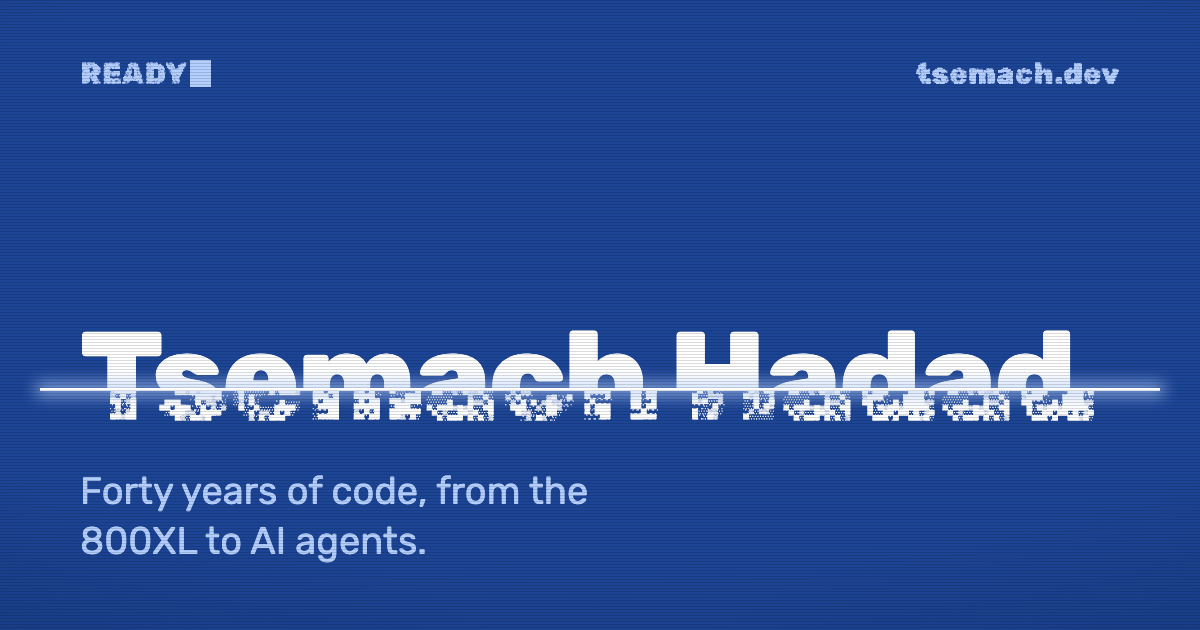
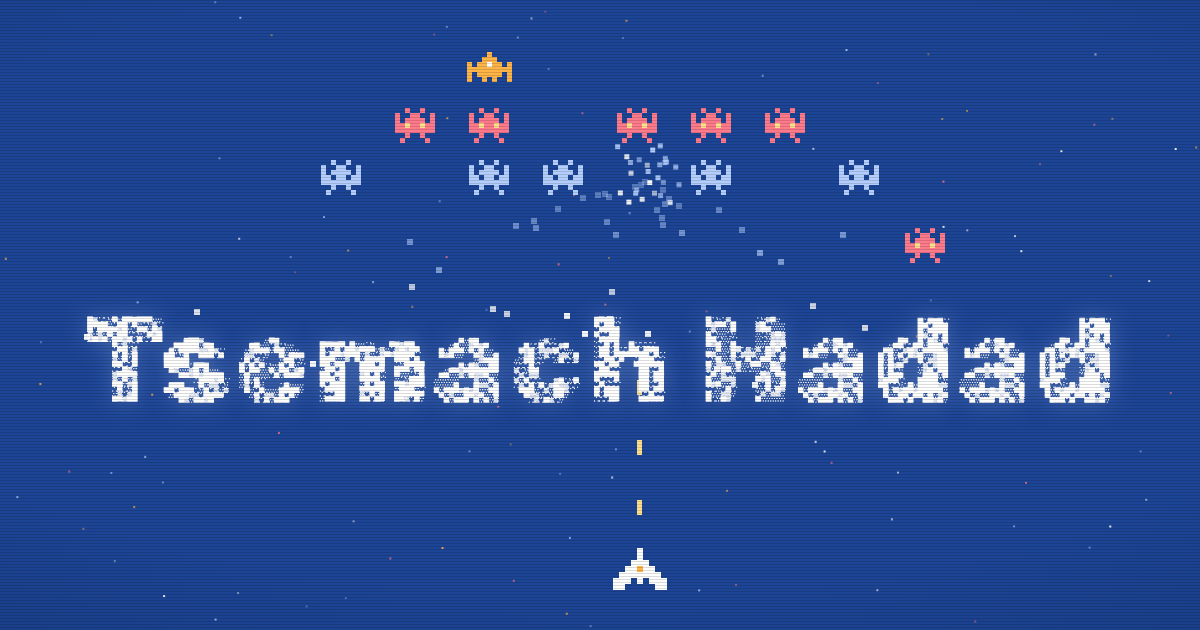
Share card: game scene image (aliens exploding into the name), name-only og:title, shorter description
Claude-Session: https://claude.ai/code/session_017kWXFcH1EjAyCBuShbGRPY

diff --git a/tools/og-scene.html b/tools/og-scene.html
@@ -1,0 +1,108 @@
+<!doctype html>
+<!-- סצנת תמונת השיתוף (1200×630). tools/og.mjs מגיש אותה יחד עם dist ומצלם. -->
+<html>
+<head>
+<meta charset="utf-8">
+<link rel="stylesheet" href="/assets/site.css">
+<style>
+  html, body { margin: 0; width: 1200px; height: 630px; overflow: hidden; background: #1d4596; }
+  .scene {
+    position: relative; width: 1200px; height: 630px; overflow: hidden;
+    background: radial-gradient(120% 90% at 50% 45%, #1d4596 55%, #16377a);
+  }
+  .scene::after { content: ''; position: absolute; inset: 0; background: repeating-linear-gradient(to bottom, rgb(0 0 0 / .14) 0 1px, transparent 1px 3px); pointer-events: none; }
+  canvas { position: absolute; inset: 0; }
+  .name {
+    position: absolute; left: 0; right: 0; top: 300px; text-align: center;
+    font: 400 var(--size) / 1 'Rubik Pixels', monospace; color: #fff; letter-spacing: .01em; white-space: nowrap;
+    text-shadow: 0 0 24px rgb(180 207 255 / .35);
+  }
+</style>
+</head>
+<body>
+<div class="scene">
+  <canvas id="c" width="1200" height="630"></canvas>
+  <div class="name" id="name"></div>
+</div>
+<script type="module">
+  import { SPRITES, ROWS, bake } from '/assets/game.js';
+  const q = new URLSearchParams(location.search);
+  const lang = q.get('lang') || 'he';
+  const nameEl = document.getElementById('name');
+  nameEl.textContent = lang === 'he' ? 'צמח חדד' : 'Tsemach Hadad';
+  nameEl.style.setProperty('--size', lang === 'he' ? '200px' : '124px');
+  if (lang === 'he') nameEl.dir = 'rtl';
+
+  let s = 7;
+  const rnd = () => ((s = (s * 1664525 + 1013904223) >>> 0) / 4294967296);
+  await document.fonts.load('200px "Rubik Pixels"');
+
+  const W = 1200, H = 630, cell = 5;
+  const g = document.getElementById('c').getContext('2d');
+  g.imageSmoothingEnabled = false;
+
+  // כוכבים
+  for (let i = 0; i < 110; i++) {
+    g.globalAlpha = .35 + rnd() * .55;
+    g.fillStyle = ['#ffffff', '#b4cfff', '#ffb547', '#ff7a8a'][(rnd() * 4) | 0];
+    g.fillRect(rnd() * W, rnd() * H, 2, 2);
+  }
+  g.globalAlpha = 1;
+
+  const art = ROWS.map(r => bake(r.kind === 'boss' ? SPRITES.boss : SPRITES.bug2, r.a, r.b, cell));
+  const gapX = 74, cols = 8, x0 = (W - (cols - 1) * gapX) / 2;
+  const rowsY = [52, 108, 160];
+  const layout = [
+    { row: 0, cols: [2, 5] },
+    { row: 1, cols: [1, 2, 3, 4, 5, 6] },
+    { row: 2, cols: [0, 1, 2, 3, 4, 5, 6, 7] },
+  ];
+  // חייזרים שכבר נפגעו (חורים במערך) ואחד שמתפוצץ עכשיו
+  const gone = new Set(['1:3', '2:1', '2:6', '0:5']);
+  const boom = { row: 2, col: 4 };
+  const pos = (row, col, a) => ({ x: x0 + col * gapX - a.width / 2, y: rowsY[row] });
+
+  for (const { row, cols: cs } of layout) {
+    for (const col of cs) {
+      const key = row + ':' + col;
+      if (gone.has(key) || (row === boom.row && col === boom.col)) continue;
+      const a = art[row]; const p = pos(row, col, a);
+      g.drawImage(a, Math.round(p.x), Math.round(p.y));
+    }
+  }
+
+  // צולל בסגנון Galaxian
+  g.drawImage(art[1], 905, 228);
+
+  // הפיצוץ: ניצוצות + פיקסלים שעפים לכיוון השם
+  const b = pos(boom.row, boom.col, art[2]);
+  const cx = b.x + art[2].width / 2, cy = b.y + art[2].height / 2;
+  for (let i = 0; i < 26; i++) {
+    const ang = rnd() * Math.PI * 2, r = 6 + rnd() * 34;
+    g.fillStyle = i % 3 ? '#b4cfff' : '#ffffff';
+    g.globalAlpha = .55 + rnd() * .45;
+    g.fillRect(cx + Math.cos(ang) * r, cy + Math.sin(ang) * r, cell, cell);
+  }
+  g.globalAlpha = 1;
+  const nr = nameEl.getBoundingClientRect();
+  for (let i = 0; i < 46; i++) {
+    const t = rnd();
+    const tx = nr.left + rnd() * nr.width, ty = nr.top + 20 + rnd() * (nr.height - 40);
+    const x = cx + (tx - cx) * t + (1 - t) * t * (rnd() - .5) * 220, y = cy + (ty - cy) * t;
+    g.globalAlpha = .35 + t * .65;
+    g.fillStyle = t > .55 ? '#ffffff' : '#b4cfff';
+    g.fillRect(Math.round(x), Math.round(y), 6, 6);
+  }
+  g.globalAlpha = 1;
+
+  // הספינה ויריות
+  const ship = bake(SPRITES.ship, '#ffffff', '#ffb547', 6);
+  const sx = 640 - ship.width / 2, sy = 548;
+  g.drawImage(ship, sx, sy);
+  g.fillStyle = '#ffe08a';
+  for (const y of [500, 440, 380]) g.fillRect(637, y, cell, cell * 3);
+
+  document.body.dataset.ready = '1';
+</script>
+</body>
+</html>

diff --git a/src/game.js b/src/game.js
@@ -2,13 +2,13 @@
 // שעפים למקומם בשם — כשהאחרון נופל, השם שלם. טייס אוטומטי משחק לבד; נגיעה, גרירה או חיצים לוקחים שליטה.
 // run() מחזיר { done, stop }: done מתממש כשהשם הורכב.
 
-const SPRITES = {
+export const SPRITES = {
   boss: ['....x....', '...xxx...', 'x.xxoxx.x', 'xxxxxxxxx', 'x.xxxxx.x', 'x..x.x..x'],
   bug1: ['..x..x..', '...xx...', '.xxxxxx.', 'xxoxxoxx', 'xxxxxxxx', 'x.x..x.x', '.x....x.'],
   bug2: ['..x..x..', 'x..xx..x', 'x.xxxx.x', 'xxoxxoxx', 'xxxxxxxx', '..x..x..', '.x....x.'],
   ship: ['....x....', '....x....', '...xxx...', '..xxoxx..', '.xxxxxxx.', 'xxx.x.xxx', 'xx.....xx'],
 };
-const ROWS = [
+export const ROWS = [
   { kind: 'boss', a: '#ffb547', b: '#ffffff', score: 150 },
   { kind: 'bug', a: '#ff7a8a', b: '#ffe08a', score: 80 },
   { kind: 'bug', a: '#b4cfff', b: '#1d4596', score: 50 },
@@ -18,7 +18,7 @@ const ROWS = [
 const ease = t => 1 - Math.pow(1 - Math.min(1, Math.max(0, t)), 3);
 const rand = (a, b) => a + Math.random() * (b - a);
 
-function bake(rows, a, b, cell) {
+export function bake(rows, a, b, cell) {
   const c = document.createElement('canvas');
   c.width = rows[0].length * cell; c.height = rows.length * cell;
   const g = c.getContext('2d');
@@ -251,7 +251,7 @@ export function run({ hero, nameEl, scoreFont = '"Rubik Pixels", monospace' }) {
     ctx.fillText('SCORE ' + String(score).padStart(6, '0'), W / 2, Math.max(18, H * 0.04));
     ctx.fillStyle = '#ffe08a';
     for (const p of pops) ctx.fillText(p.s, p.x, p.y);
-    if (!played && !allDead) {
+    if (!played && !allDead && !/[?&]og\b/.test(location.search)) {
       ctx.globalAlpha = 0.55 + 0.35 * Math.sin(t * 5);
       ctx.font = `500 ${Math.max(12, cell * 3)}px Rubik, system-ui, sans-serif`;
       ctx.fillStyle = '#ffffff';
